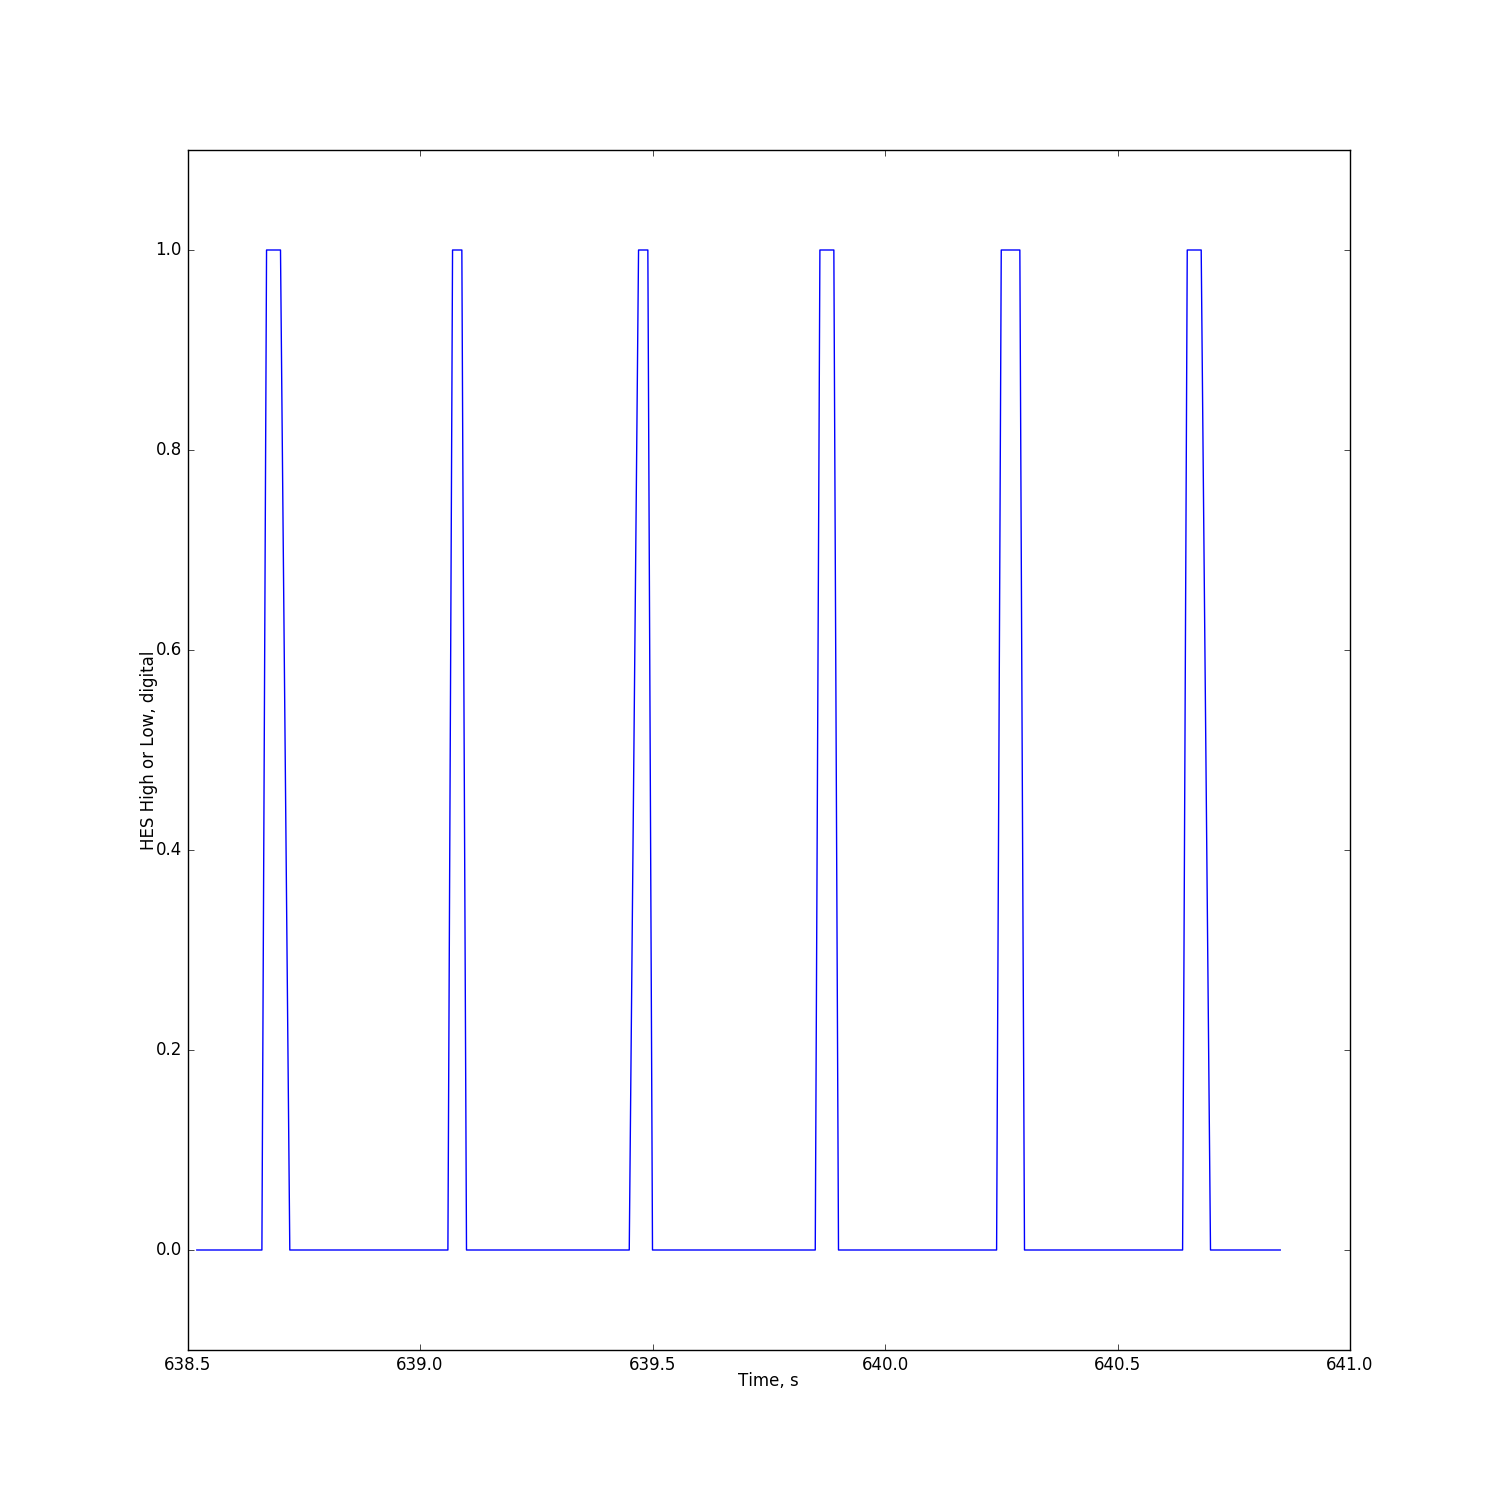
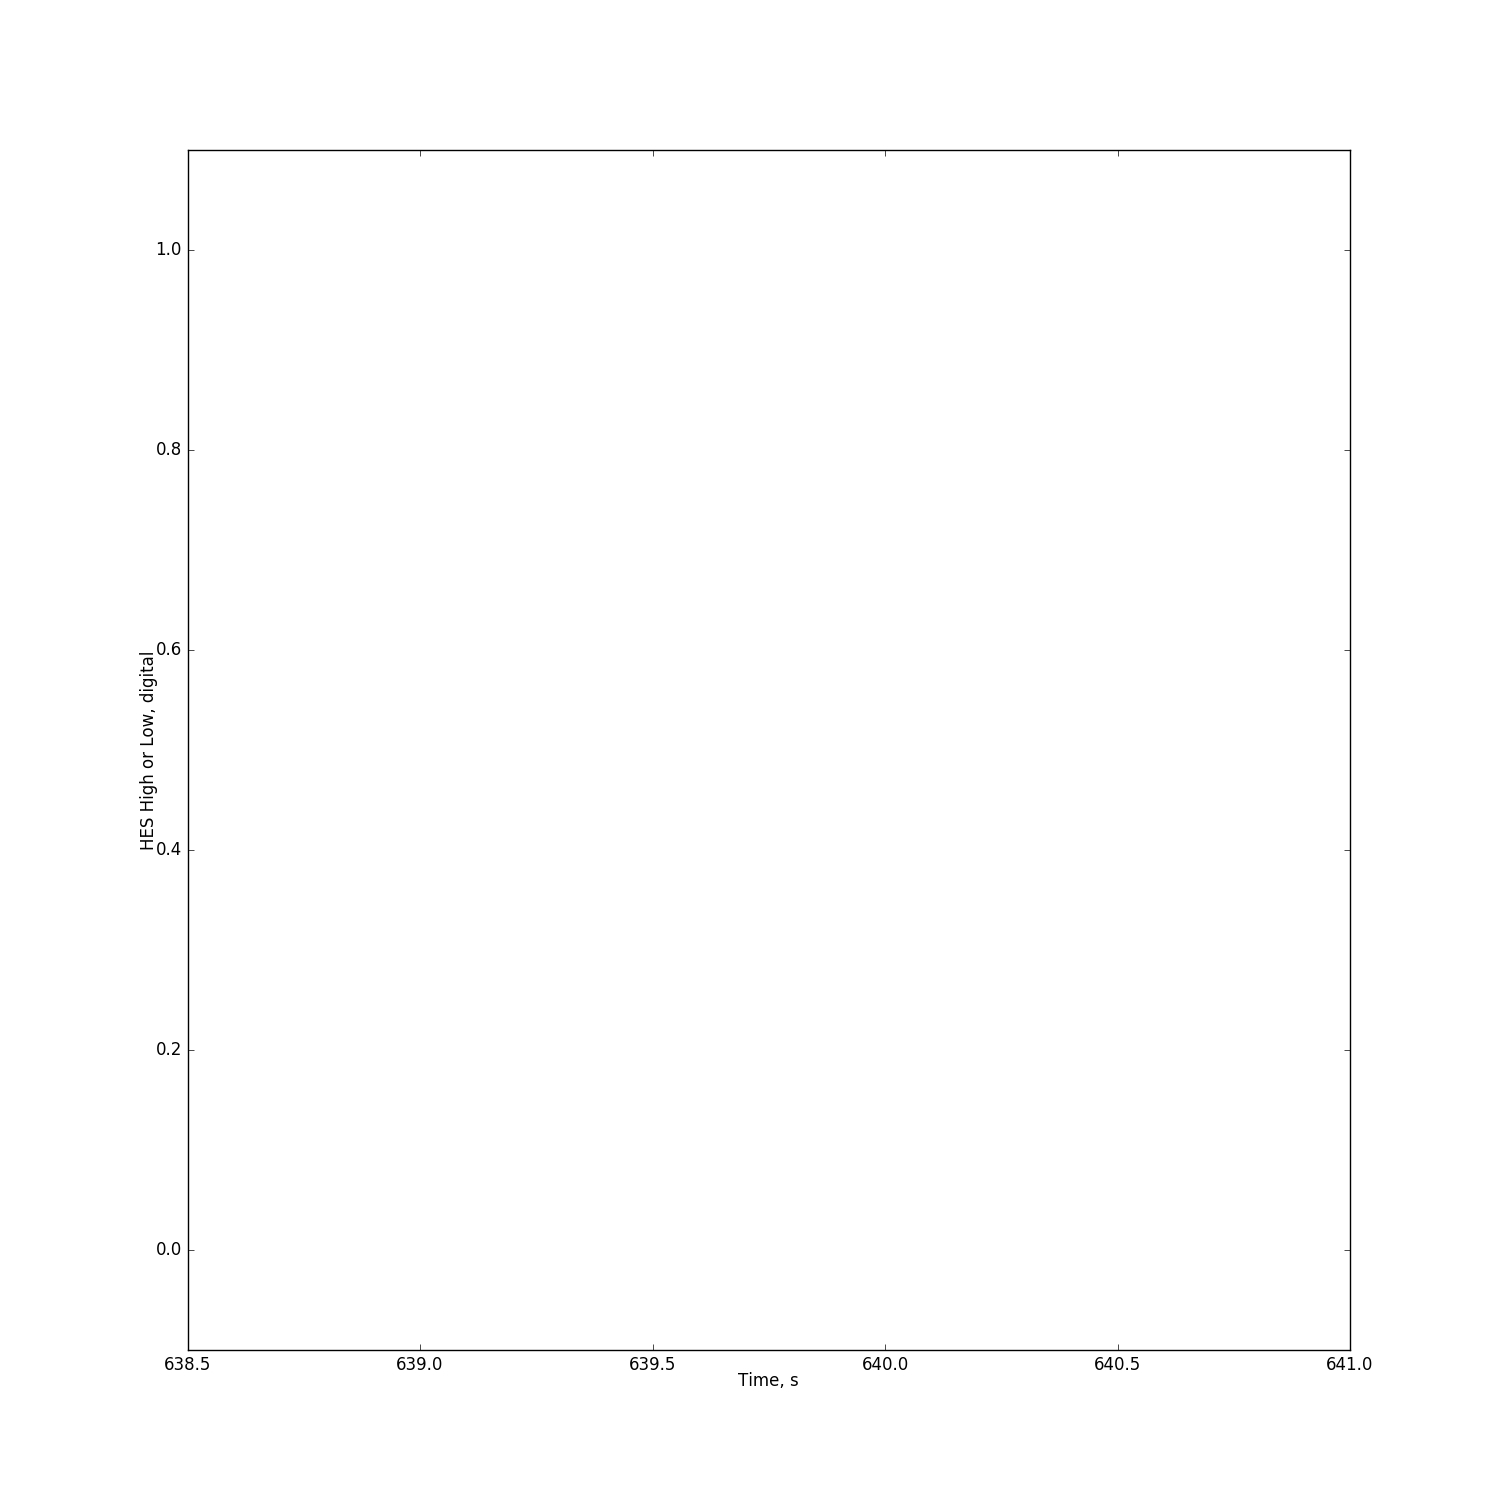
updates, new plots

diff --git a/write_up/logbook.tex b/write_up/logbook.tex
@@ -184,9 +184,14 @@
 	\newpage
 	\section{Week Beginning 13 February 2017 (Week 5)}
 	\begin{itemize}
+		\subsection*{Monday}
+		\item Tried the light based sensor to detect the speed; worked much better than the hall sensor. Still noisy output, but much smoother and both speed calculation methods agree. 
+		\item Will need to vary parameters to improve the response. (Tuning the sensor?)
+		\subsection*{Tuesday}
 		\item Today's Todo:
-		\subitem Take a last look at the code.
-		\subitem See how the phototransistor/LED version of the circuit works
+		\subitem Vary parameters and see how the speed sensor's output varies:
+		\subsubitem Poll rate (low, 0.01s, to high, 0.5s, step 0.01)
+		\subsubitem byspan method span length (low, 0.1s, to high, 1s, step 0.1)
 		\subitem Get the waveform output from the phototransistor
 		\subitem reduce the poll rate of the code (might be tying up the thread)
 		\subitem Read through report already written, re-write sections, check literature etc etc

diff --git a/lib/dat+plot/plot_HES_log_debug.py b/lib/dat+plot/plot_HES_log_debug.py
@@ -1,7 +1,7 @@
 import matplotlib.pyplot as plt
 
 #Read logfile
-datf = open("./log_0.csv", "r")
+datf = open("./log_13.csv", "r")
 datl = datf.readlines()
 datf.close()
 
@@ -38,11 +38,11 @@ for i in range(0, len(datl)):
 # Process data
 for i in range(0, len(datl)):
     if hval[i] == 0:
-        hval[i] = 2  # ADC ERROR
+        hval[i] = 0
     elif hval[i] >= 612:
-        hval[i] = 0  # High value
+        hval[i] = 1  # High value
     else:
-        hval[i] = 1  # Low Value
+        hval[i] = 1
     avso[pval[i]] += so[i]
     av_c[pval[i]] += 1
 
